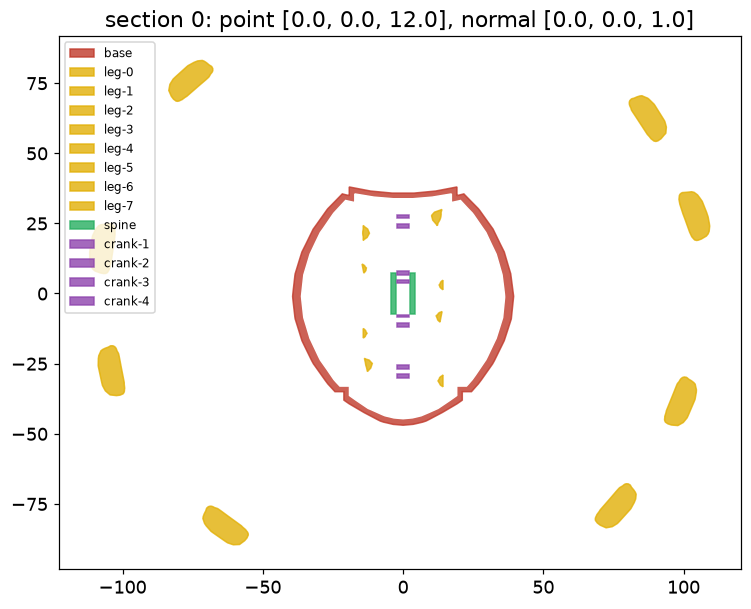
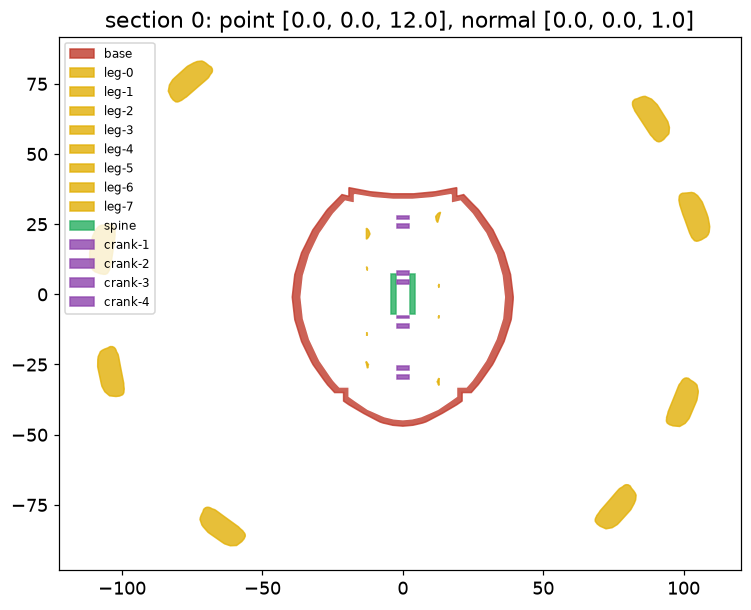
Phase 3 leg joint, option D: the leg rides with its pin point on the crank pin
leg_frame translated by A_k - T A0 (<= 1.43 mm along the leg, foot height <= 0.23); BORE_DRIFT 0;
bore PINR/cos(tilt) + TURN, wall WALL_MIN, floor = tilted pin-tip corner + TURN; bead radius and groove from the
tilted ring; PIN_TRIM/PIN_X1 moved to shells.py; verify.py boxes follow TUBE_X1, legs' RETAIN play 1.0;
cutters: skip a one-sample pocket patch with no outline.

diff --git a/cad/robot/shells.py b/cad/robot/shells.py
@@ -64,22 +64,28 @@ BRELD = F.LEG_PATH.side + 0.15   # body rim notch / eye-block pocket: the body i
 PKT = FE.PKT                            # back-sheet pocket (depth, |x|, z0, z1): spec back_sheet_pocket, derived from the legs' sweep at S 1.0
 SNX, SNW, SNT, SNZ, RIBD, SNG = CL.SNX, CL.SNW, CL.SNT, CL.SNZ, CL.RIBD, CL.SNG
 PINR = CL.PINR                          # printed crank pin r (Ø3)
-END_R = PINR + F.TURN.side + CL.W       # leg end tube: bore TURN over the pin, wall W 1.2
+PIN_TRIM = 0.5                          # pin tip short of the legs' nominal bore floor by this (drive.py reads it: PIN_X1)
+PIN_X1 = P["XC"] + CL.PINX - PIN_TRIM   # pin tip (|x|)
+# leg end tube (option D): the bore is the tilted pin's ellipse, PINR / cos(tilt) + TURN; the wall is fits.WALL_MIN; per leg, set below
+# (BORE_R, END_RS, TUBE_X1 after pin_swing); END_R is the largest, the envelope the checks box
 # leg snap on the crank pin (option A, build-log N2 r00): a groove on the pin, a ring bead in the end tube's bore, an axial slit
 # in the tube so it opens over the pin tip. The snap fit is fits.PRESS (assumed): coupon list, not printed now.
 SNAP_NECK_R = 1.0 * FE.K                       # pin neck r in the groove (Ø2.0, brief: neck Ø >= 2.0)
 SNAP_BW = 0.5 * FE.K                           # bead width (axial)
-SNAP_END = 1.0 * FE.K                          # bore floor past XC+PINX: the old open mouth, kept (the pin tip is 0.5 inside it; the leg slides up to 1.5 towards its crank: a floor at TURN 0.25 overlapped crank x leg 0.22 mm3)
 SNAP_WALL = F.WALL_MIN                         # solid end wall closing the tube beyond the bore floor: the neck rod runs into it (print 2026-11-24: the rod only butted the open rim, leg 3 snapped)
 SNAP_SLIT = 0.6 * FE.K                         # slit width (tangential)
-def snap_bead_r(i): return SNAP_NECK_R + F.TURN.side + BORE_DRIFT[i]       # bead inner r: turns on the neck (TURN), bore axis drift as the bore
+def snap_bead_r(i):
+    """bead inner r: the ring (circle of radius r, width SNAP_BW, plane normal to the tube's axis) sits tilted by the pin's swing on the
+    neck: its edge corner is at distance r cos(tilt) - SNAP_BW / 2 sin(tilt) from the pin axis, which must be neck + TURN."""
+    t = math.radians(PIN_TILT[i])
+    return (SNAP_NECK_R + F.TURN.side + SNAP_BW / 2 * math.sin(t)) / math.cos(t)
 SNAP_MARGIN = F.TURN.side             # axial room each side of the bead's travel (TURN; 0.10 left crank x leg 0.06-0.09 over the poses; slide stays within RETAIN 1.25)
 def snap_groove(i):
     """(x0, x1) of the pin groove (robot |x|, right side): the axial span the bead's inner edge sweeps where it is within the pin's
     shoulder radius (PINR), over the 24 poses (tilt of the tube on the pin and the leg's axial drift), plus SNAP_MARGIN a side."""
     P_, A0 = motion.neutral_leg(i, P, n=13)[:2]; A0 = np.asarray(A0, float); rb = snap_bead_r(i); lo = 1e9; hi = -1e9
     th = np.linspace(0, 2 * np.pi, 181)
-    ring = np.array([[A0[0], A0[1] + r * np.cos(t), A0[2] + r * np.sin(t), 1.0] for r in (rb, (rb + PINR) / 2) for t in th])
+    ring = np.array([[A0[0], A0[1] + r * np.cos(t), A0[2] + r * np.sin(t), 1.0] for r in np.linspace(rb, PINR + 0.5, 6) for t in th])     # the bead's face out to the shoulder radius: its tilted plane reaches furthest along x there
     for k in range(24):
         Q = (leg_frame(i, k) @ ring.T).T[:, :3]
         rho = np.hypot(Q[:, 1] - A_ALL[i, k][1], Q[:, 2] - A_ALL[i, k][2]); m = rho < PINR
@@ -142,6 +148,9 @@ def _leg_frame(Lg, k):
     A = A_ALL[Lg, k] * ([1, 1, 1] if right else [-1, 1, 1])
     u = (P_ - A) / np.linalg.norm(P_ - A); M = R0.T @ motion.frame(u[None])[0]
     T = np.eye(4); T[:3, :3] = M.T; T[:3, 3] = P_ - M.T @ P_
+    # option D (phase 3 leg joint): the leg rides with its pin point on the crank pin, not with its pivot P fixed: translate by A_k - T A0
+    # (<= 1.45 mm along the leg, foot height <= 0.3), so the bore axis stays on the pin and BORE_DRIFT is 0 (right-leg frame, then mirrored)
+    T[:3, 3] += A - (T[:3, :3] @ np.asarray(A0, float) + T[:3, 3])
     if not right:
         Mx = np.diag([-1.0, 1, 1, 1]); T = Mx @ T @ Mx
     return T
@@ -162,7 +171,8 @@ def _leg_right(i):
     hs = _along(hs, A0 + HUBCUT * u, u)
     arm = arm - hs
     th = math.radians(FLARE_DEG[i])                  # bore and tube flare: the pin's swing in the leg frame + 1 deg
-    x0, xm, x1 = A0[0] - TAIL, A0[0], P["XC"] + CL.PINX + SNAP_END   # tail .. pin point .. bore floor past the pin tip
+    END_R = END_RS[i]; BR = BORE_R[i]
+    x0, xm, x1 = A0[0] - TAIL, A0[0], TUBE_X1[i]   # tail .. pin point .. bore floor (the tilted pin tip's corner + TURN)
     xe = x1 + SNAP_WALL                                              # the tube's closed end
     def dcone(r, xend=None):
         from build123d import Cone
@@ -187,14 +197,14 @@ def _leg_right(i):
                                                     - Cone(r0, r0 - END_REL_SLOPE * hr, hr, align=(Align.CENTER, Align.CENTER, Align.MIN)))
     below = Pos(xr + hr / 2, A0[1], A0[2] - 3.0 - 10.0) * Box(hr + 2.0, 40.0, 20.0)         # z < axis - 3: the lowest bit of the tube, clear of the arm rod (its underside is at axis - 2.4 there)
     tube = tube - wedge - (rel & below)
-    bore = Pos(-0.01, 0, 0) * dcone(PINR + F.TURN.side + BORE_DRIFT[i], x1)
-    bore = bore + Pos(0.02, 0, 0) * dcone(PINR + F.TURN.side + BORE_DRIFT[i], x1)
+    bore = Pos(-0.01, 0, 0) * dcone(BR, x1)
+    bore = bore + Pos(0.02, 0, 0) * dcone(BR, x1)
     from build123d import Cone
     joint = _along(Cylinder(JOINT_R, HUBCUT - 1.0, align=(Align.CENTER, Align.CENTER, Align.MIN)), A0 + 1.5 * u, u)
     joint = joint + _along(Cone(JOINT_R + JOINT_BLEND_DR, JOINT_R, JOINT_BLEND_L, align=(Align.CENTER, Align.CENTER, Align.MIN)), A0 + 1.5 * u, u)   # blends into the tube wall
     ball = Pos(*P_) * Sphere(PB)
     rb = snap_bead_r(i)
-    ring = Pos(xm - SNAP_BW / 2, A0[1], A0[2]) * Rot(0, 90, 0) * (Cylinder(PINR + F.TURN.side + BORE_DRIFT[i] + 0.4, SNAP_BW, align=(Align.CENTER, Align.CENTER, Align.MIN))
+    ring = Pos(xm - SNAP_BW / 2, A0[1], A0[2]) * Rot(0, 90, 0) * (Cylinder(BR + 0.4, SNAP_BW, align=(Align.CENTER, Align.CENTER, Align.MIN))
                                                                   - Cylinder(rb, SNAP_BW, align=(Align.CENTER, Align.CENTER, Align.MIN)))
     leg = fuse_all([blade, arm, tube, joint, ball]) - bore
     uh = u - np.dot(u, [1.0, 0, 0]) * np.array([1.0, 0, 0]); uh = uh / np.linalg.norm(uh)             # the arm's side of the tube
@@ -222,7 +232,7 @@ def _along(sh, p0, u):
     return Pos(*p0) * sh
 def leg(Lg):
     i = Lg % 4
-    key = ("leg9", i, SNAP_END, SNAP_WALL, SNAP_NECK_R, SNAP_BW, SNAP_SLIT, FLARE_DEG[i], BORE_DRIFT[i], CL.PINX, S, HUBCUT, TAIL, END_R, PB, JOINT_R, JOINT_BLEND_DR, JOINT_BLEND_L, stamp("cad/legs/build.py", "cad/motion.py"), FE.D23, FE.D23C,
+    key = ("leg11", i, snap_bead_r(i), TUBE_X1[i], BORE_R[i], END_RS[i], SNAP_WALL, SNAP_NECK_R, SNAP_BW, SNAP_SLIT, FLARE_DEG[i], CL.PINX, S, HUBCUT, TAIL, PB, JOINT_R, JOINT_BLEND_DR, JOINT_BLEND_L, stamp("cad/legs/build.py", "cad/motion.py"), FE.D23, FE.D23C,
            FACE_CHAMFER, END_REL_X, END_REL_DR, END_REL_SLOPE, srch(_leg_right, _along))
     sh = cached(f"leg{i}", key, lambda: _leg_right(i))
     return sh if Lg < 4 else mirror_x(sh)
@@ -248,16 +258,16 @@ FACE_CHAMFER = 0.6       # tube mouth outer edge 45 deg chamfer
 END_REL_X = 1.5          # the recess starts this far before the bore floor ...
 END_REL_DR = 0.5         # ... this deep ...
 END_REL_SLOPE = 1.0      # ... and grows by this per mm towards the closed end
-BORE_DRIFT_MARGIN = 0.05   # was 0.01: the pin's tilt left crank 3 x legs 2/6 at 0.19 < 0.2 (phase 3)
-def bore_drift(i):
-    """worst offset (mm, across the pin axis x) between the pin centre A_k and the bore axis the rigid leg carries over the 24
-    poses: leg_frame keeps the pivot P fixed while |P - A| changes by SL, so the neutral A0 lands off the pin (smoke 2026-11-23:
-    gaps 0.08 / 0.14 / 0.19 against TURN 0.25). The bore is widened by it: a loose leg on its pin is fine in this toy."""
-    P_, A0 = motion.neutral_leg(i, P, n=13)[:2]; A0 = np.asarray(A0, float); w = 0.0
-    for k in range(24):
-        d = (leg_frame(i, k) @ np.r_[A0, 1.0])[:3] - A_ALL[i, k]; w = max(w, float(np.hypot(d[1], d[2])))
-    return round(w + BORE_DRIFT_MARGIN, 2)
-BORE_DRIFT = [bore_drift(i) for i in range(4)]
+BORE_DRIFT = [0.0] * 4          # the leg rides on its pin (leg_frame): no axis drift to widen the bore by
+PIN_TILT = [pin_swing(i) for i in range(4)]          # deg, the pin's largest tilt to the leg's x over the 24 poses
+BORE_R = [PINR / math.cos(math.radians(t)) + F.TURN.side for t in PIN_TILT]     # the tilted pin cuts the bore's plane as an ellipse (semi-major PINR / cos)
+END_RS = [b + F.WALL_MIN for b in BORE_R]
+END_R = max(END_RS)
+def _tube_x1(i):
+    """bore floor (robot |x|): the pin tip's far corner, tilted by the pin's swing, plus TURN."""
+    A0 = np.asarray(motion.neutral_leg(i, P, n=13)[1], float); th = math.radians(PIN_TILT[i]); tip = PIN_X1 - A0[0]
+    return float(A0[0] + tip * math.cos(th) + PINR * math.sin(th) + F.TURN.side)
+TUBE_X1 = [_tube_x1(i) for i in range(4)]
 
 _LV = {}
 def leg_points(Lg, k, edge=0.8):

diff --git a/cad/robot/verify.py b/cad/robot/verify.py
@@ -29,15 +29,11 @@ def poses(t):
     return out
 
 UP = [0, 0, 1]
+PLAY = 1.0
 RETAIN = {"body": {"spin": None, "slide": None, "play": 0.6},          # two front snap hooks under the ribs + rear tab
-          **{n: {"spin": None, "slide": None, "play": 1.25} for n in LEGS}}  # snap bead in the pin's groove + window + body rim
-# the corner legs 0, 3 and their mirrors 4, 7 slide up to 1.40 / 1.50 mm towards their crank (0 and 7 at pose 0-7,
-# 4 at pose 10, 3 at pose 12; measured at all 24 poses 2026-11-23: only the groove stops them since the base front is
-# smooth): accepted by Morante 2026-11-23 («Aceptar 1,6 mm hacia dentro»); outward every leg stays <= 1.15 mm
-for _n in ("leg-0", "leg-3", "leg-4", "leg-7"):
-    RETAIN[_n]["play"] = 1.65
-# legs' play 1.25, not 1.0 (Morante, 2026-11-23): the groove lets the bead travel 1.4-1.7 mm over the 24 poses (tube
-# tilt + axial drift), so a leg rides up to 1.0 mm along its pin; inward it cannot come off, outward it stays <= 0.75
+          **{n: {"spin": None, "slide": None, "play": PLAY} for n in LEGS}}  # snap bead in the pin's groove + window + body rim
+# option D (the leg rides with its pin point on the crank pin, groove = the bead's sweep + 2 x TURN): the legs' play is what retention measures,
+# PLAY mm along the pin (was 1.25, 1.65 on the corner legs 0, 3, 4, 7 while the leg slid 1.4-1.7 mm along it)
 ALLOWED_CONTACT = {("body", "base"): "body rim seated on the base ledge; snap hooks under the front ribs (fits.PRESS, coupon c1)"}
 JOINTS = {("body", "base"): {"fit": fits.PRESS, "why": "front snap fingers under the ribs and rear tab (plan body-front-snaps, body-rear-tab)"},
           **{(n, "base"): {"fit": fits.LEG_OPEN, "why": "leg neck in its open-top window (plan leg-path; LEG_OPEN, 2026-11-23)"} for n in LEGS}}
@@ -73,7 +69,7 @@ def _junction_sections():
         sa = (tip - A0[0]) / u[0]
         out.append({"part": n, "origin": [float(v) for v in A0m], "axis": [float(v) for v in um], "s0": float(sa), "s1": float(SH.HUBCUT - 0.25),
                     "min": 15.0, "why": "tube -> neck rod -> arm, planes normal to the rod (rod alone 17.3)"})
-        out.append({"part": n, "origin": [float(sx * (SH.P["XC"] + SH.CL.PINX + SH.SNAP_END + 0.1)), float(A0[1]), float(A0[2])], "axis": [sx, 0.0, 0.0],
+        out.append({"part": n, "origin": [float(sx * (SH.TUBE_X1[k % 4] + 0.1)), float(A0[1]), float(A0[2])], "axis": [sx, 0.0, 0.0],
                     "s0": 0.0, "s1": float(SH.SNAP_WALL - 0.2), "min": 15.0, "why": "the tube's closed end wall and the rod running into it"})
     return out
 SECTION_MIN = _junction_sections()
@@ -126,8 +122,8 @@ def _leg_except():
     for k, n in enumerate(LEGS):
         P_, A0, *_ = motion.neutral_leg(k % 4, SH.P, n=13)
         sx = 1.0 if k < 4 else -1.0
-        x0 = A0[0] - SH.CL.TAIL; xe = SH.P["XC"] + SH.CL.PINX + SH.SNAP_END + SH.SNAP_WALL
-        r = SH.END_R + (xe - A0[0]) * math.tan(math.radians(SH.FLARE_DEG[k % 4])) + max(SH.BORE_DRIFT) + 1.0
+        x0 = A0[0] - SH.CL.TAIL; xe = SH.TUBE_X1[k % 4] + SH.SNAP_WALL
+        r = SH.END_RS[k % 4] + (xe - A0[0]) * math.tan(math.radians(SH.FLARE_DEG[k % 4])) + 1.0
         xa, xb = sorted((sx * (x0 - 1.0), sx * (xe + 1.0)))
         ya, yb, za, zb = float(A0[1] - r), float(A0[1] + r), float(A0[2] - r), float(A0[2] + r)
         why = "leg looks outside the joint (jenscolt's shape, printed at 0.70): only the end tube is asked"

diff --git a/cad/robot/drive.py b/cad/robot/drive.py
@@ -45,8 +45,7 @@ PINR = CL.PINR                                      # crank pin Ø3 (legs' bore 
 WEB_T = CL.WEB_T; WB0 = WX1 + TH; WB1 = WB0 + WEB_T  # webs just outside the walls (THRUST)
 WEBR = PINR + CL.WEBW                               # web stadium half-width (check.py WEBR)
 WEB_SWEEP = [math.hypot(A_ALL[i + 4, 0][1] - Oy[i], A_ALL[i + 4, 0][2] - Oz) + WEBR for i in range(4)]   # -x webs' reach round each crank centre
-PIN_TRIM = 0.5                                      # pin tip short of the leg's bore floor by this more (the inward-drifted leg's floor met the tip: crank 4 x legs 3/7, phase 3)
-PIN_X1 = P["XC"] + CL.PINX - PIN_TRIM                 # pin tip (|x|)
+PIN_TRIM, PIN_X1 = SH.PIN_TRIM, SH.PIN_X1             # pin tip (|x|), set in shells.py (the legs' bore floor is cut from it)
 # pin collar (leg-on-pin "+x crank web"): the leg's end tube starts at XC - TAIL; the collar stops it TURN short, less
 # the tube face's tilt at the collar radius (the leg swings FLARE_DEG on its pin, shells.py), so the leg is held in x
 COLLAR = False                                      # tried 2026-11-23: STL split into bodies, legs 3/4 overlap it at pose 0

diff --git a/cad/robot/cutters.py b/cad/robot/cutters.py
@@ -209,7 +209,10 @@ def body_cutters(body, samples, frames, piv, r_pose, r_lift, kc, liftd, rimr, re
                 n = body.face_normals[fi].mean(0); fr = frame_of(n); t, z, n = fr
                 near_leg = np.vstack([P[np.isfinite(cKDTree(R).query(P, distance_upper_bound=r + SLACK)[0])] for P, r in ((pose, r_pose), (lift, r_lift))])
                 d0 = (near_leg @ n).min() - r_pose - SLACK; d1 = (R @ n).max() + 0.5
-                out.append((_hull_outline(R, fr), fr, (d0, d1), f"pocket leg {Lg}"))
+                ol = _hull_outline(R, fr)
+                if ol.is_empty or not np.isfinite([d0, d1]).all():            # a one-sample patch at the threshold: its outline simplifies away (new sweep, phase 3); body_gaps still checks it
+                    print(f"    [body] pocket leg {Lg}: a {len(R)}-sample patch at {np.round(R.mean(0), 1).tolist()} has no outline, skipped", flush=True); continue
+                out.append((ol, fr, (d0, d1), f"pocket leg {Lg}"))
     return out
 
 
